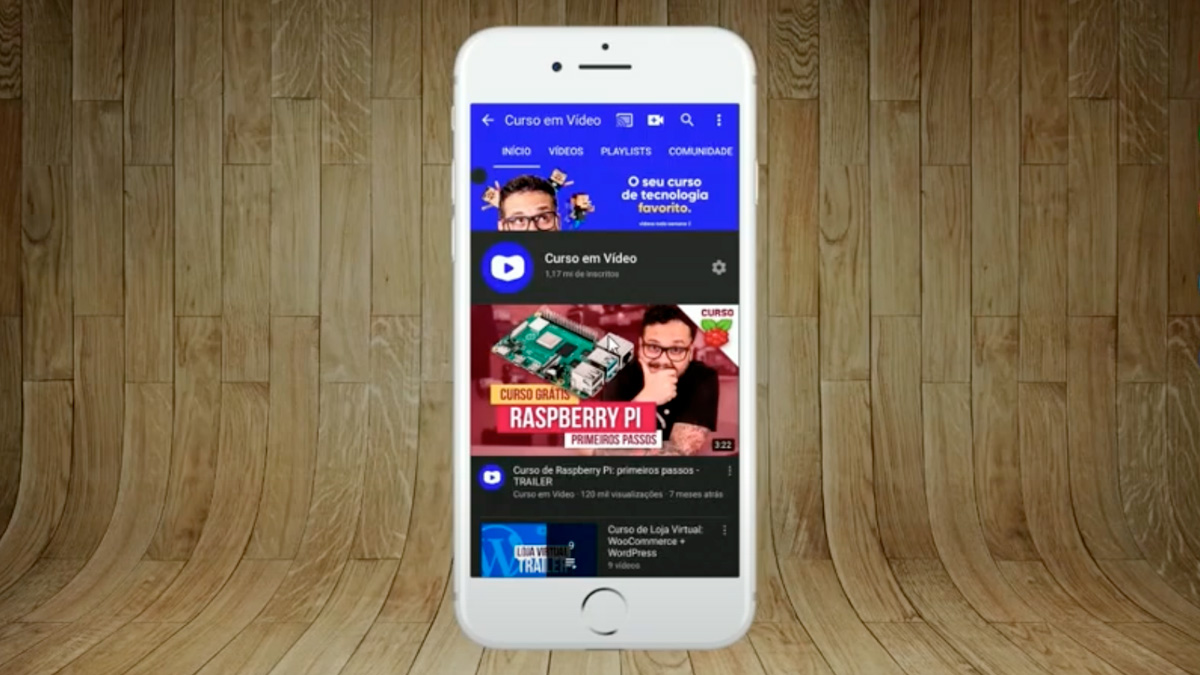
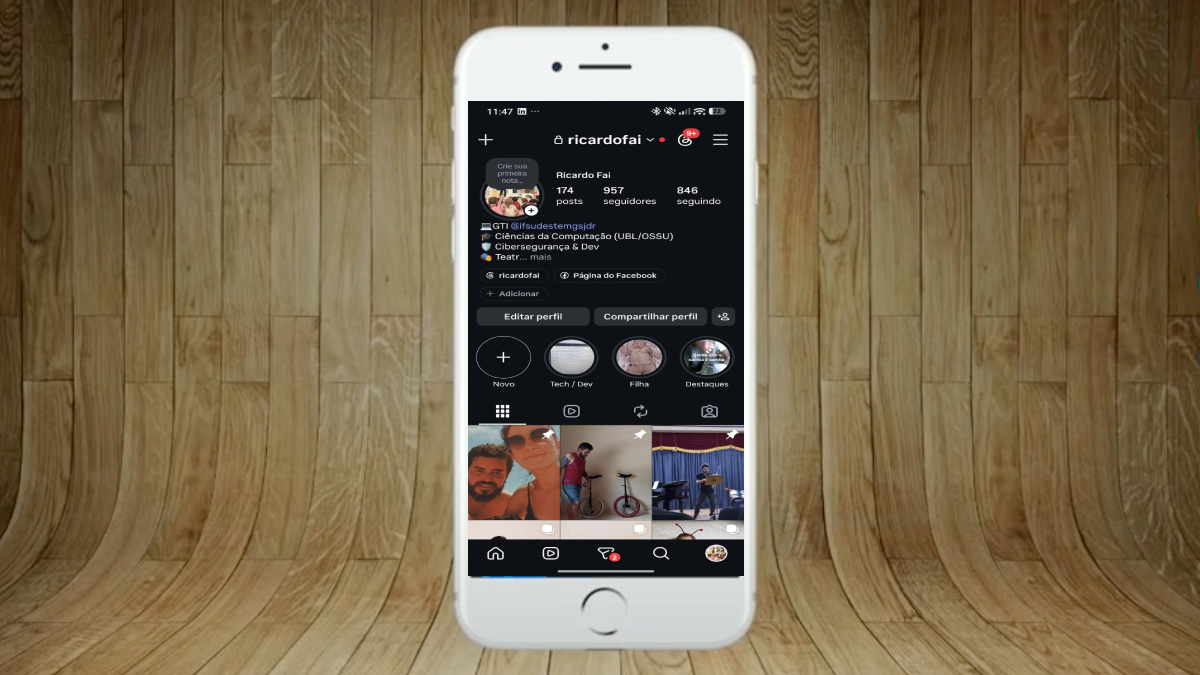
atualização1

Changed region(s): [[0.37, 0.1244, 0.6475, 0.8711]]

diff --git a/index.html b/index.html
@@ -221,7 +221,7 @@
 
 
                     <div class="projeto"> <!-- Projeto 03-->
-                        <img src="imagens/WhatsApp Image 2026-08-02 at 11.48.11.jpeg" alt="projeto 1" class="foto">
+                        <img src="imagens/projeto-04-links.jpg" class="foto">
                         <div class="projeto-info">
                             <p class="periodo">2025</p>
                             <h3 class="titulo">Projeto Links</h3>
